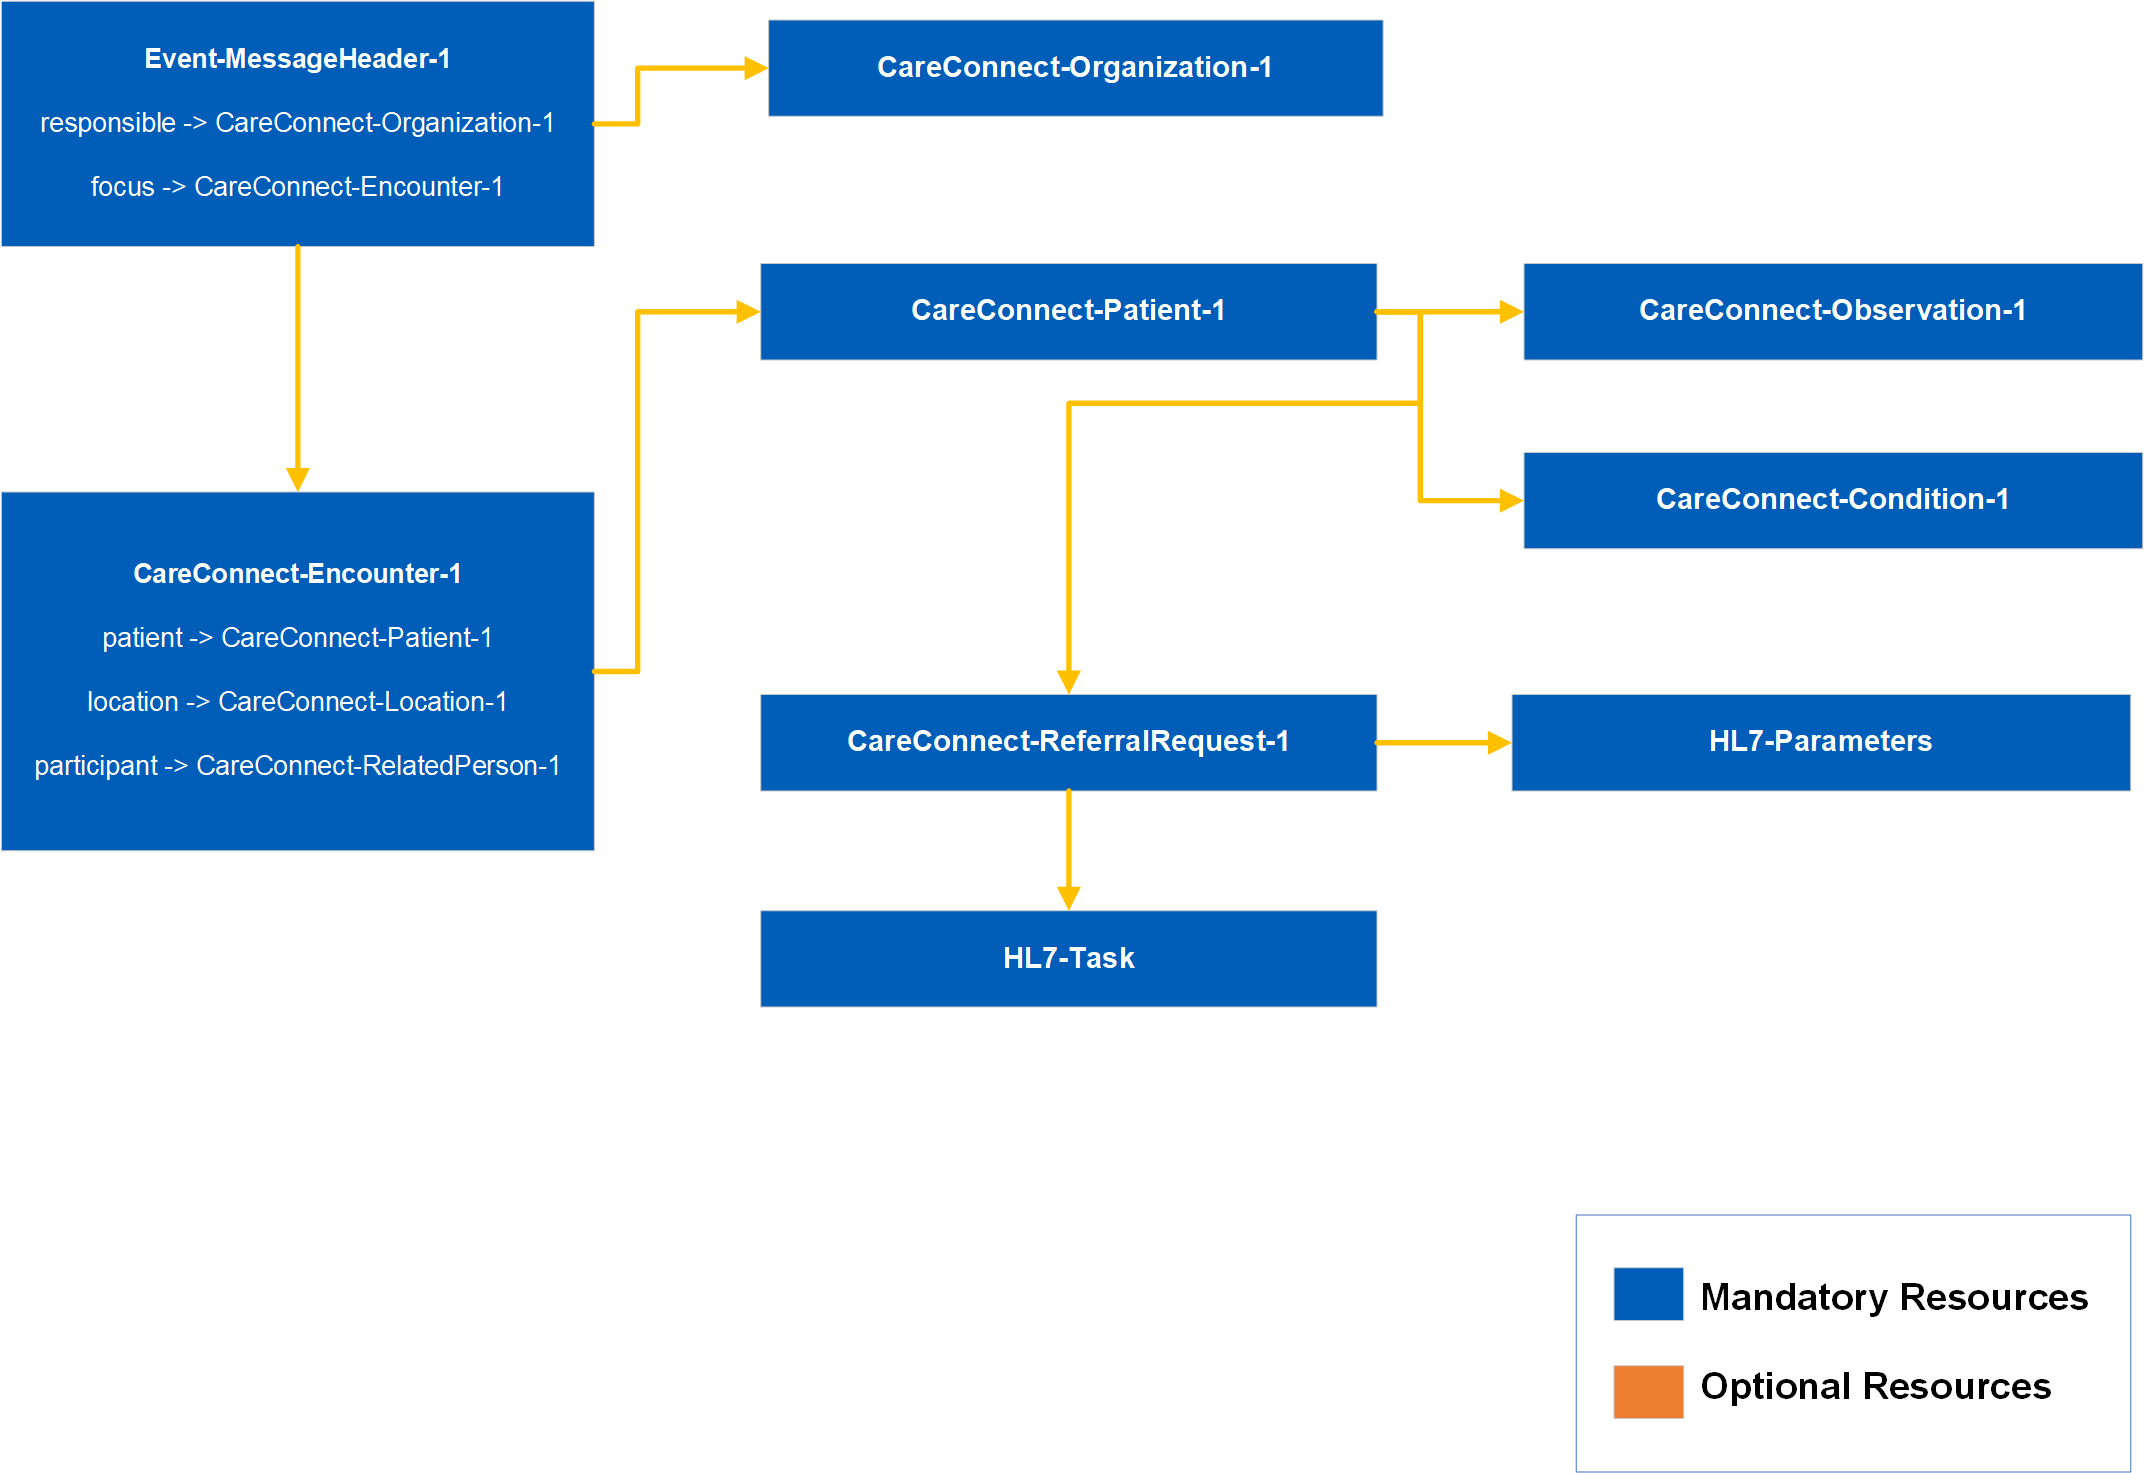
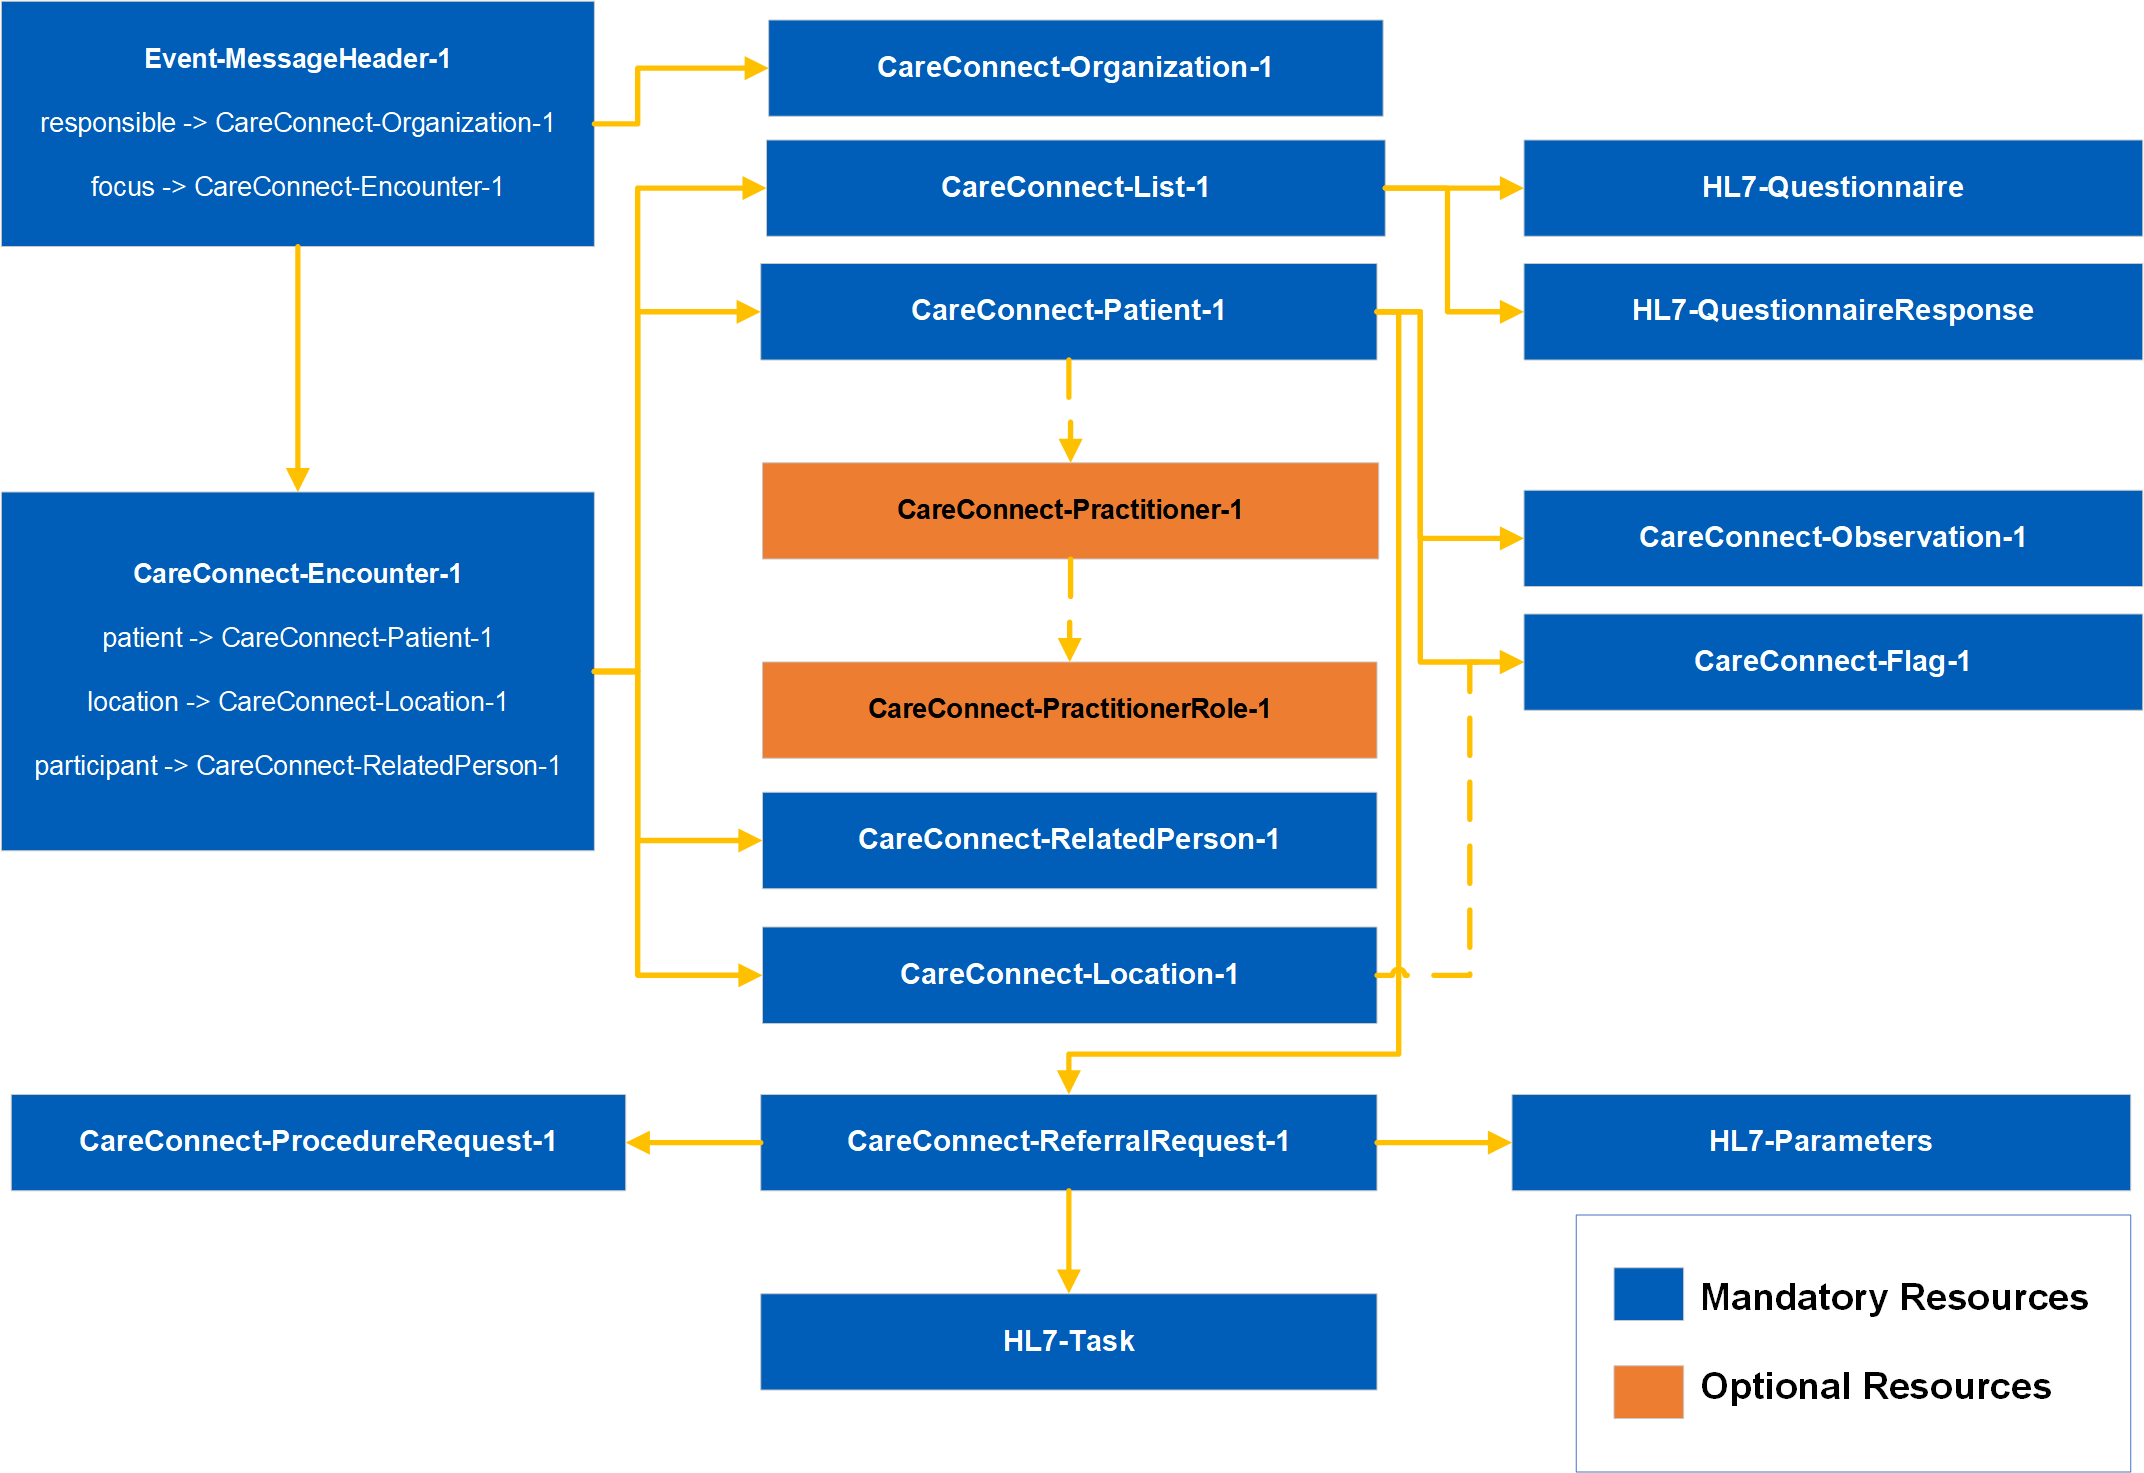
validation response same message back

diff --git a/pages/engage/engage_111_to_999_validation_response.md b/pages/engage/engage_111_to_999_validation_response.md
@@ -7,12 +7,14 @@ permalink: engage_111_to_999_validation_response.html
 summary: "An example of a 111 service sending a validation response to a 999 service"
 ---
 
+This is going to follow the same format as the Message from 999 to 111 with edits to the MessageHeader and Task resource. The data will be updated in line with the progress made.
+
 ## Bundle structure
 
 The event message will contain a mandatory `MessageHeader` resource as the first element within the event message bundle as per FHIR messaging requirements. The MessageHeader resource references an `Encounter` resource as the focus of the event message.
 
 <div style="text-align:center; margin-bottom:20px" >
-	<a href="images/engage/999-to-111/uec-flows-111-to-999-val-resp.png" target="_blank"><img src="images/engage/999-to-111/uec-flows-111-to-999-val-resp.png"></a>
+	<a href="images/engage/999-to-111/uec-flows-999-to-111-validation.png" target="_blank"><img src="images/engage/999-to-111/uec-flows-999-to-111-validation.png"></a>
 </div>
 
 ## Event Life Cycle ##
@@ -70,6 +72,25 @@ The patient resource included in the event message SHALL conform to the [CareCon
 | name (official) | 1..1 | Patients name as registered on PDS, included within the resource as the official name element slice |
 | birthDate | 1..1 | The patients date of birth |
 
+### [CareConnect-Practitioner-1](https://fhir.hl7.org.uk/STU3/StructureDefinition/CareConnect-Practitioner-1)
+
+The Practitioner resources included as part of the event message SHALL conform to the [CareConnect-Practitioner-1](https://fhir.hl7.org.uk/STU3/StructureDefinition/CareConnect-Practitioner-1) constrained FHIR profile.
+
+| Resource Cardinality | 0..* |
+
+### [CareConnect-PractitionerRole-1](https://fhir.hl7.org.uk/STU3/StructureDefinition/CareConnect-PractitionerRole-1)
+
+The PractitionerRole resources included as part of the event message SHALL conform to the [CareConnect-PractitionerRole-1](https://fhir.hl7.org.uk/STU3/StructureDefinition/CareConnect-PractitionerRole-1) constrained FHIR profile.
+
+| Resource Cardinality | 0..* |
+
+| Element | Cardinality | Additional Guidance |
+| --- | --- | --- |
+| organization | 1..1 | Reference to the Organization where the practitioner performs this role |
+| practitioner | 1..1 | Reference to the Practitioner who this role relates to |
+| code | 1..* | The practitioner role SHALL included a value from the [ProfessionalType-1](https://fhir.nhs.uk/STU3/ValueSet/ProfessionalType-1) value set. The PractitionerRole.code should also include the SDS Job Role name where available. |
+| specialty | 1..1 | PractitionerRole.specialty SHALL use a value from [Specialty-1](https://fhir.nhs.uk/STU3/ValueSet/Specialty-1) value set |
+
 ### [CareConnect-Encounter-1](https://fhir.hl7.org.uk/STU3/StructureDefinition/CareConnect-Encounter-1)
 
 The Encounter resource included as part of the event message SHALL conform to the [CareConnect-Encounter-1](https://fhir.hl7.org.uk/STU3/StructureDefinition/CareConnect-Encounter-1) constrained FHIR profile and the additional population guidance as per the table below:
@@ -98,11 +119,19 @@ The Location resources included as part of the event message SHALL conform to th
 
 ### [HL7 Parameters](http://hl7.org/fhir/stu3/parameters.html)
 
+### [CareConnect-List-1](https://fhir.hl7.org.uk/STU3/StructureDefinition/CareConnect-List-1)
+
+### [CareConnect-RelatedPerson-1](https://fhir.hl7.org.uk/STU3/StructureDefinition/CareConnect-RelatedPerson-1)
+
+### [CareConnect-Questionnaire-1](http://hl7.org/fhir/stu3/questionnaire.html)
+
+### [CareConnect-QuestionnaireResponse-1](http://hl7.org/fhir/stu3/questionnaireresponse.html)
+
 ### [CareConnect-Observation-1](https://fhir.hl7.org.uk/STU3/StructureDefinition/CareConnect-Observation-1)
 
-### [CareConnect-Condition-1](https://fhir.hl7.org.uk/STU3/StructureDefinition/CareConnect-Condition-1)
+### [CareConnect-Flag-1](https://fhir.hl7.org.uk/STU3/StructureDefinition/CareConnect-Flag-1)
 
-
+### [CareConnect-ProcedureRequest-1](https://fhir.hl7.org.uk/STU3/StructureDefinition/CareConnect-ProcedureRequest-1)
 
 ## Examples
 

diff --git a/pages/engage/engage_999_to_111_validation.md b/pages/engage/engage_999_to_111_validation.md
@@ -129,6 +129,8 @@ The Location resources included as part of the event message SHALL conform to th
 
 ### [CareConnect-Flag-1](https://fhir.hl7.org.uk/STU3/StructureDefinition/CareConnect-Flag-1)
 
+### [CareConnect-ProcedureRequest-1](https://fhir.hl7.org.uk/STU3/StructureDefinition/CareConnect-ProcedureRequest-1)
+
 ## Examples
 
 <div class="tabPanel">
